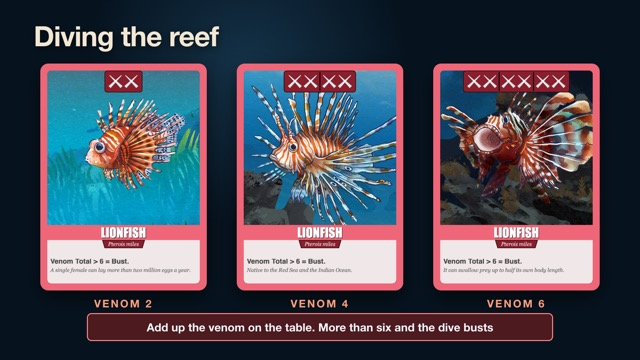
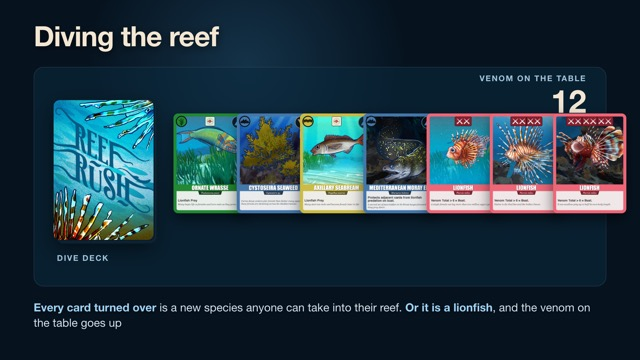
Reef Rush deck: split Diving the reef into the dive and a Lionfish slide

diff --git a/presentations/reef-rush/index.html b/presentations/reef-rush/index.html
@@ -136,7 +136,7 @@ body { background:#06131f; font-family:"Helvetica Neue", Helvetica, Arial, sans-
 <!-- GENERATED by build_deck.py. Edit build_deck.py, not this file. -->
 <div id="root" data-composition-id="reef-rush-v3" data-start="0" data-width="1920" data-height="1080" data-duration="400" data-fps="30">
 <!-- s01 Reef Rush -->
-<section class="clip scene" id="s01" data-start="0.000" data-duration="16.330" data-track-index="1" data-label="Reef Rush">
+<section class="clip scene" id="s01" data-start="0.000" data-duration="16.265" data-track-index="1" data-label="Reef Rush">
 <div class="glow"></div>
   <div class="kicker" id="s01-kicker" style="top:232px; font-size:40px; letter-spacing:0.35em;">BioInvaders!</div>
   <h1 class="title" id="s01-title" style="top:300px; width:1060px; font-size:150px; line-height:1;">Reef Rush</h1>
@@ -153,7 +153,7 @@ body { background:#06131f; font-family:"Helvetica Neue", Helvetica, Arial, sans-
   <div class="funding" id="s01-foot"><img src="assets/logos/eu_flag.png" alt="European Union flag">Funded by the European Union<span class="grant">Horizon Europe grant agreement No 101181413</span></div>
 </section>
 <!-- s02 The invader -->
-<section class="clip scene" id="s02" data-start="15.830" data-duration="23.838" data-track-index="2" data-label="The invader">
+<section class="clip scene" id="s02" data-start="15.765" data-duration="23.512" data-track-index="2" data-label="The invader">
 <img class="bg" src="assets/generated/slide_03_map_v2.webp" alt="" style="filter:saturate(0.88) brightness(0.86) contrast(1.03);">
   <div class="tint"></div>
   <div class="scrim-top"></div>
@@ -175,7 +175,7 @@ body { background:#06131f; font-family:"Helvetica Neue", Helvetica, Arial, sans-
   <div class="foot" id="s02-foot" style="bottom:54px;">The reefs our Greek partners dive on. <b>Every species in the game is one they meet in the sea</b></div>
 </section>
 <!-- s03 Why it's a threat -->
-<section class="clip scene" id="s03" data-start="39.168" data-duration="22.777" data-track-index="3" data-label="Why it&#x27;s a threat">
+<section class="clip scene" id="s03" data-start="38.776" data-duration="22.466" data-track-index="3" data-label="Why it&#x27;s a threat">
 <div class="glow"></div>
   <h1 class="title" id="s03-title" style="top:62px;">Why it's a threat</h1>
   <div class="threat" id="s03-t1" style="left:100px;">
@@ -195,7 +195,7 @@ body { background:#06131f; font-family:"Helvetica Neue", Helvetica, Arial, sans-
   </div>
 </section>
 <!-- s04 Invasive species this, invasive species that -->
-<section class="clip scene" id="s04" data-start="61.445" data-duration="15.398" data-track-index="4" data-label="Invasive species this, invasive species that">
+<section class="clip scene" id="s04" data-start="60.742" data-duration="15.282" data-track-index="4" data-label="Invasive species this, invasive species that">
 <img class="bg" src="assets/generated/slide_06_scrolling_figure.webp" alt="" style="filter:brightness(0.55) saturate(0.7);">
   <div class="scrim-left"></div>
   <h1 class="title" id="s04-title" style="top:150px; width:1100px; font-size:96px;">Invasive species this,<br><span class="hot">invasive species that</span></h1>
@@ -203,7 +203,7 @@ body { background:#06131f; font-family:"Helvetica Neue", Helvetica, Arial, sans-
   <div class="line" id="s04-l2" style="top:610px; width:1000px;">It stays <b>abstract</b>. It doesn't feel emotionally salient, and it doesn't motivate action</div>
 </section>
 <!-- s05 The law of apparent reality -->
-<section class="clip scene" id="s05" data-start="76.343" data-duration="16.412" data-track-index="5" data-label="The law of apparent reality">
+<section class="clip scene" id="s05" data-start="75.524" data-duration="16.190" data-track-index="5" data-label="The law of apparent reality">
 <div class="glow"></div>
   <h1 class="title" id="s05-title" style="top:62px;">The law of apparent reality</h1>
   <div class="panel" id="s05-quote" style="left:100px; top:200px; width:1000px;">
@@ -222,7 +222,7 @@ body { background:#06131f; font-family:"Helvetica Neue", Helvetica, Arial, sans-
   <div class="foot" id="s05-foot" style="bottom:54px;">The fear tracks the <b>experience</b>, not the danger</div>
 </section>
 <!-- s06 Play makes it close -->
-<section class="clip scene" id="s06" data-start="92.255" data-duration="9.400" data-track-index="6" data-label="Play makes it close">
+<section class="clip scene" id="s06" data-start="91.214" data-duration="9.400" data-track-index="6" data-label="Play makes it close">
 <img class="bg" src="assets/generated/slide_06_reef_table.webp" alt="" style="filter:brightness(0.8);">
   <div class="scrim-top"></div>
   <div class="scrim-bottom"></div>
@@ -232,7 +232,7 @@ body { background:#06131f; font-family:"Helvetica Neue", Helvetica, Arial, sans-
   <div class="foot" id="s06-foot" style="bottom:40px; font-size:40px; color:#f3e7d3;">A game puts it in your hands</div>
 </section>
 <!-- s07 Building a reef -->
-<section class="clip scene" id="s07" data-start="101.155" data-duration="15.705" data-track-index="7" data-label="Building a reef">
+<section class="clip scene" id="s07" data-start="100.114" data-duration="15.492" data-track-index="7" data-label="Building a reef">
 <img class="bg" src="assets/photos/island_santorini_full_art.webp" alt="" style="filter:brightness(0.75);">
   <div class="scrim-top"></div>
   <div class="scrim-bottom"></div>
@@ -243,7 +243,7 @@ body { background:#06131f; font-family:"Helvetica Neue", Helvetica, Arial, sans-
   <div class="line" id="s07-l2" style="top:850px; width:1200px;"><b>And the right human action</b>, which comes later</div>
 </section>
 <!-- s08 A healthy ecosystem -->
-<section class="clip scene" id="s08" data-start="116.360" data-duration="13.230" data-track-index="8" data-label="A healthy ecosystem">
+<section class="clip scene" id="s08" data-start="115.106" data-duration="13.052" data-track-index="8" data-label="A healthy ecosystem">
 <img class="bg" src="assets/bga/final_reefs.webp" alt="" style="filter:brightness(0.3) saturate(0.6) blur(2px);">
   <div class="scrim-top"></div>
   <h1 class="title" id="s08-title" style="top:62px;">A healthy ecosystem</h1>
@@ -254,7 +254,7 @@ body { background:#06131f; font-family:"Helvetica Neue", Helvetica, Arial, sans-
   <div class="art" id="s08-a4" style="left:1480px;"><img src="assets/art/jellyfish_full_art.webp" alt=""><span>Fried egg jellyfish</span></div>
 </section>
 <!-- s10 The right habitats -->
-<section class="clip scene" id="s10" data-start="129.090" data-duration="11.500" data-track-index="9" data-label="The right habitats">
+<section class="clip scene" id="s10" data-start="127.658" data-duration="11.500" data-track-index="9" data-label="The right habitats">
 <div class="glow"></div>
   <h1 class="title" id="s10-title" style="top:62px;">The right habitats</h1>
   <div class="hab" id="s10-h1" style="left:100px;">
@@ -272,7 +272,7 @@ body { background:#06131f; font-family:"Helvetica Neue", Helvetica, Arial, sans-
   <div class="foot" id="s10-foot" style="bottom:40px;">The border colour and the corner icon name the habitat. <b>Build the right mix</b></div>
 </section>
 <!-- s11 The goals of the game -->
-<section class="clip scene" id="s11" data-start="140.090" data-duration="20.655" data-track-index="10" data-label="The goals of the game">
+<section class="clip scene" id="s11" data-start="138.658" data-duration="20.374" data-track-index="10" data-label="The goals of the game">
 <div class="glow"></div>
   <h1 class="title" id="s11-title" style="top:62px;">The goals of the game</h1>
   <div class="line" id="s11-lede" style="top:186px; font-size:40px;">Three <b>goal cards</b> show every player what a healthy ecosystem looks like</div>
@@ -282,7 +282,7 @@ body { background:#06131f; font-family:"Helvetica Neue", Helvetica, Arial, sans-
   <div class="chip" id="s11-chip" style="left:460px; top:940px; width:1000px; height:84px;">A healthy reef is a high-scoring reef</div>
 </section>
 <!-- s09 Working with scientists -->
-<section class="clip scene" id="s09" data-start="160.245" data-duration="10.500" data-track-index="11" data-label="Working with scientists">
+<section class="clip scene" id="s09" data-start="158.531" data-duration="10.500" data-track-index="11" data-label="Working with scientists">
 <img class="bg" src="assets/photos/s09_aegean_reef_gamba.webp" alt="Rocky reef in the Cyclades with ornate wrasse, seabreams, rabbitfish, red algae and red encrusting sponge" style="left:auto; right:0; width:1080px; filter:brightness(0.85);">
   <div class="scrim-left" style="width:1300px;"></div>
   <h1 class="title" id="s09-title" style="top:62px;">Working with scientists</h1>
@@ -300,7 +300,7 @@ body { background:#06131f; font-family:"Helvetica Neue", Helvetica, Arial, sans-
   <div class="credit" id="s09-credit">Photo: Paolo Gamba, Cyclades, CC BY 2.0</div>
 </section>
 <!-- s12 Human action -->
-<section class="clip scene" id="s12" data-start="170.245" data-duration="15.500" data-track-index="12" data-label="Human action">
+<section class="clip scene" id="s12" data-start="168.531" data-duration="15.500" data-track-index="12" data-label="Human action">
 <img class="bg" src="assets/photos/expedition_lionfish_programme_full_art.webp" alt="" style="filter:brightness(0.7);">
   <div class="scrim-left" style="width:1400px;"></div>
   <div class="scrim-bottom"></div>
@@ -315,7 +315,7 @@ body { background:#06131f; font-family:"Helvetica Neue", Helvetica, Arial, sans-
   <div class="line" id="s12-l2" style="top:810px; width:1100px;">Build the incentive in and the culling carries on by itself</div>
 </section>
 <!-- s13 An economy around the lionfish -->
-<section class="clip scene" id="s13" data-start="185.245" data-duration="10.327" data-track-index="13" data-label="An economy around the lionfish">
+<section class="clip scene" id="s13" data-start="183.531" data-duration="10.250" data-track-index="13" data-label="An economy around the lionfish">
 <img class="bg" src="assets/generated/slide_18_products.webp" alt="" style="filter:brightness(0.85);">
   <div class="scrim-top"></div>
   <div class="scrim-bottom" style="height:520px;"></div>
@@ -329,7 +329,7 @@ body { background:#06131f; font-family:"Helvetica Neue", Helvetica, Arial, sans-
   </div>
 </section>
 <!-- s15 Diving the reef -->
-<section class="clip scene" id="s15" data-start="195.072" data-duration="32.512" data-track-index="14" data-label="Diving the reef">
+<section class="clip scene" id="s15" data-start="193.281" data-duration="20.500" data-track-index="14" data-label="Diving the reef">
 <div class="glow"></div>
   <h1 class="title" id="s15-title" style="top:62px;">Diving the reef</h1>
   <div id="s15-table" style="position:absolute; inset:0;">
@@ -346,15 +346,18 @@ body { background:#06131f; font-family:"Helvetica Neue", Helvetica, Arial, sans-
     <div class="flip" id="s15-c7"><div class="flip-inner"><div class="face back"><img src="assets/cards/card_back.webp" alt=""></div><div class="face front"><img src="assets/cards/lionfish_large_card.webp" alt=""></div></div></div>
     <div class="line" id="s15-l1" style="top:900px;"><b>Every card turned over</b> is a new species anyone can take into their reef. <b>Or it is a lionfish</b>, and the venom on the table goes up</div>
   </div>
-  <div id="s15-trio" style="position:absolute; inset:0;">
-    <div class="big" id="s15-b1" style="left:120px;"><img src="assets/cards/lionfish_small_card.webp" alt=""><span>Venom 2</span></div>
-    <div class="big" id="s15-b2" style="left:710px;"><img src="assets/cards/lionfish_medium_card.webp" alt=""><span>Venom 4</span></div>
-    <div class="big" id="s15-b3" style="left:1300px;"><img src="assets/cards/lionfish_large_card.webp" alt=""><span>Venom 6</span></div>
-    <div class="chip" id="s15-chip" style="left:260px; top:940px; width:1400px; height:84px;">Add up the venom on the table. More than six and the dive busts</div>
-  </div>
+</section>
+<!-- s14 Lionfish -->
+<section class="clip scene" id="s14" data-start="213.281" data-duration="16.344" data-track-index="15" data-label="Lionfish">
+<div class="glow"></div>
+  <h1 class="title" id="s14-title" style="top:62px;">Lionfish</h1>
+  <div class="big" id="s14-b1" style="left:120px;"><img src="assets/cards/lionfish_small_card.webp" alt=""><span>Venom 2</span></div>
+  <div class="big" id="s14-b2" style="left:710px;"><img src="assets/cards/lionfish_medium_card.webp" alt=""><span>Venom 4</span></div>
+  <div class="big" id="s14-b3" style="left:1300px;"><img src="assets/cards/lionfish_large_card.webp" alt=""><span>Venom 6</span></div>
+  <div class="chip" id="s14-chip" style="left:260px; top:940px; width:1400px; height:84px;">Add up the venom on the table. More than six and the dive busts</div>
 </section>
 <!-- s16 The deeper you dive -->
-<section class="clip scene" id="s16" data-start="227.084" data-duration="18.854" data-track-index="15" data-label="The deeper you dive">
+<section class="clip scene" id="s16" data-start="229.125" data-duration="18.429" data-track-index="16" data-label="The deeper you dive">
 <img class="bg" src="assets/photos/expedition_travelled_diver_full_art.webp" alt="" style="left:auto; right:0; width:1080px; filter:brightness(0.8);">
   <div class="scrim-left" style="width:1300px;"></div>
   <h1 class="title" id="s16-title" style="top:62px;">The deeper you dive</h1>
@@ -363,7 +366,7 @@ body { background:#06131f; font-family:"Helvetica Neue", Helvetica, Arial, sans-
   <div class="chip" id="s16-chip" style="left:100px; top:760px; width:960px; height:84px;">More than six venom on display and the dive busts</div>
 </section>
 <!-- s17 Stay or surface -->
-<section class="clip scene" id="s17" data-start="245.438" data-duration="12.500" data-track-index="16" data-label="Stay or surface">
+<section class="clip scene" id="s17" data-start="247.054" data-duration="12.500" data-track-index="17" data-label="Stay or surface">
 <img class="bg" src="assets/generated/slide_17_stay_or_surface.webp" alt="" style="filter:brightness(0.85);">
   <div class="scrim-top"></div>
   <div class="scrim-bottom"></div>
@@ -373,7 +376,7 @@ body { background:#06131f; font-family:"Helvetica Neue", Helvetica, Arial, sans-
   <div class="pin big" id="s17-p2" style="left:1320px; top:760px;">&uarr;&ensp;Surface</div>
 </section>
 <!-- s18 If you stop -->
-<section class="clip scene" id="s18" data-start="257.438" data-duration="13.732" data-track-index="17" data-label="If you stop">
+<section class="clip scene" id="s18" data-start="259.054" data-duration="13.425" data-track-index="18" data-label="If you stop">
 <img class="bg" src="assets/generated/slide_26_surfacing.webp" alt="" style="filter:brightness(0.8);">
   <div class="scrim-top"></div>
   <div class="scrim-bottom"></div>
@@ -383,7 +386,7 @@ body { background:#06131f; font-family:"Helvetica Neue", Helvetica, Arial, sans-
   <div class="line" id="s18-l1" style="top:840px; width:1100px;"><b>Surface</b>, and you take exactly one card from the display into your reef. The dive goes on without you</div>
 </section>
 <!-- s19 Natural predators -->
-<section class="clip scene" id="s19" data-start="270.669" data-duration="13.500" data-track-index="18" data-label="Natural predators">
+<section class="clip scene" id="s19" data-start="271.979" data-duration="13.500" data-track-index="19" data-label="Natural predators">
 <div class="glow"></div>
   <h1 class="title" id="s19-title" style="top:62px;">Natural predators</h1>
   <div class="line" id="s19-lede" style="top:186px; font-size:40px;">Grouper and moray are the <b>bodyguards</b> of your reef</div>
@@ -397,7 +400,7 @@ body { background:#06131f; font-family:"Helvetica Neue", Helvetica, Arial, sans-
   <div class="foot" id="s19-foot" style="bottom:54px;">They protect the cards next to them, and <b>they cannot be eaten themselves</b></div>
 </section>
 <!-- s20 Cashing in the catch -->
-<section class="clip scene" id="s20" data-start="283.669" data-duration="16.293" data-track-index="19" data-label="Cashing in the catch">
+<section class="clip scene" id="s20" data-start="284.979" data-duration="15.927" data-track-index="20" data-label="Cashing in the catch">
 <div class="glow"></div>
   <h1 class="title" id="s20-title" style="top:62px;">Cashing in the catch</h1>
   <div class="line" id="s20-lede" style="top:186px; font-size:35px;">The spearfisher removes a lionfish, but <b>selling the catch at the market is where the points are</b></div>
@@ -410,7 +413,7 @@ body { background:#06131f; font-family:"Helvetica Neue", Helvetica, Arial, sans-
   <div class="foot" id="s20-foot" style="bottom:54px;">Create market demand and <b>culling the invader becomes worth doing again and again</b></div>
 </section>
 <!-- s21 The game ends -->
-<section class="clip scene" id="s21" data-start="299.462" data-duration="15.705" data-track-index="20" data-label="The game ends">
+<section class="clip scene" id="s21" data-start="300.406" data-duration="15.492" data-track-index="21" data-label="The game ends">
 <div class="glow"></div>
   <h1 class="title" id="s21-title" style="top:62px;">The game ends</h1>
   <div class="shot" id="s21-shot" style="left:100px; top:200px; width:1000px; height:760px;"><img src="assets/bga/final_reefs_10.webp" alt="" style="width:1000px; height:1000px; margin-top:-120px;"><div class="shot-cap">Endgame reef, 9 September playtest with the Greek team</div></div>
@@ -425,7 +428,7 @@ body { background:#06131f; font-family:"Helvetica Neue", Helvetica, Arial, sans-
   </div>
 </section>
 <!-- s22 One of seven games -->
-<section class="clip scene" id="s22" data-start="314.667" data-duration="14.644" data-track-index="21" data-label="One of seven games">
+<section class="clip scene" id="s22" data-start="315.398" data-duration="14.446" data-track-index="22" data-label="One of seven games">
 <img class="bg" src="assets/photos/s22_backs.webp" alt="">
   <div class="scrim-bottom" style="height:360px;"></div>
   <div class="seven" id="s22-seven">7</div>
@@ -434,7 +437,7 @@ body { background:#06131f; font-family:"Helvetica Neue", Helvetica, Arial, sans-
   <div class="line" id="s22-l2" style="top:950px; width:1720px;">A few months in, still very much a prototype, and still changing</div>
 </section>
 <!-- s23 In person and online -->
-<section class="clip scene" id="s23" data-start="328.811" data-duration="13.230" data-track-index="22" data-label="In person and online">
+<section class="clip scene" id="s23" data-start="329.345" data-duration="13.052" data-track-index="23" data-label="In person and online">
 <div class="glow"></div>
   <h1 class="title" id="s23-title" style="top:62px;">In person and online</h1>
   <div class="shot" id="s23-a" style="left:100px; top:210px; width:840px; height:560px;"><img src="assets/generated/slide_23_three_player_dive.webp" alt="" style="width:840px; height:473px; margin-top:0;"><div class="shot-cap">Playtests round the table</div></div>
@@ -442,7 +445,7 @@ body { background:#06131f; font-family:"Helvetica Neue", Helvetica, Arial, sans-
   <div class="chip" id="s23-chip" style="left:130px; top:860px; width:1660px; height:84px; font-size:30px;">Print-and-play copies being tested by our Greek partner later this month, at a lionfish event in Santorini</div>
 </section>
 <!-- s24 The sweet spot -->
-<section class="clip scene" id="s24" data-start="341.541" data-duration="10.401" data-track-index="23" data-label="The sweet spot">
+<section class="clip scene" id="s24" data-start="341.897" data-duration="10.262" data-track-index="24" data-label="The sweet spot">
 <img class="bg" src="assets/generated/slide_24_balance_gen.webp" alt="" style="filter:brightness(0.8);">
   <div class="scrim-top"></div>
   <div class="scrim-bottom"></div>
@@ -451,7 +454,7 @@ body { background:#06131f; font-family:"Helvetica Neue", Helvetica, Arial, sans-
   <div class="foot" id="s24-foot" style="bottom:54px; font-size:36px;">Feedback from that event and other playtests tunes the economy until the feel is right</div>
 </section>
 <!-- s25 Free under Creative Commons -->
-<section class="clip scene" id="s25" data-start="351.442" data-duration="16.058" data-track-index="24" data-label="Free under Creative Commons">
+<section class="clip scene" id="s25" data-start="351.659" data-duration="15.841" data-track-index="25" data-label="Free under Creative Commons">
 <div class="glow"></div>
   <h1 class="title" id="s25-title" style="top:62px;">Free under Creative Commons</h1>
   <div class="shot" id="s25-shot" style="left:100px; top:210px; width:840px; height:473px;"><img src="assets/generated/slide_25_manual_gen.webp" alt="" style="width:840px; height:473px; margin-top:0;"></div>
@@ -470,7 +473,7 @@ body { background:#06131f; font-family:"Helvetica Neue", Helvetica, Arial, sans-
   </div>
 </section>
 <!-- s26 Why it should win -->
-<section class="clip scene" id="s26" data-start="367.000" data-duration="28.500" data-track-index="25" data-label="Why it should win">
+<section class="clip scene" id="s26" data-start="367.000" data-duration="28.500" data-track-index="26" data-label="Why it should win">
 <img class="bg" src="assets/generated/slide_26_prototype_gen.webp" alt="" style="filter:brightness(0.6);">
   <div class="scrim-left" style="width:1400px;"></div>
   <h1 class="title" id="s26-title" style="top:62px;">Why it should win</h1>
@@ -491,7 +494,7 @@ body { background:#06131f; font-family:"Helvetica Neue", Helvetica, Arial, sans-
   <div class="label" id="s26-cap" style="left:1232px; top:905px; width:580px; text-align:center; font-size:22px;">Four of the layouts being tried</div>
 </section>
 <!-- s28 Questions -->
-<section class="clip scene" id="s28" data-start="395.000" data-duration="5.000" data-track-index="26" data-label="Questions">
+<section class="clip scene" id="s28" data-start="395.000" data-duration="5.000" data-track-index="27" data-label="Questions">
 <div class="glow"></div>
   <div class="kicker" id="s28-kick" style="left:0; width:1920px; text-align:center; top:120px;">BioInvaders! Reef Rush</div>
   <h1 class="title" id="s28-title" style="left:0; width:1920px; text-align:center; top:170px; font-size:130px;">Questions?</h1>
@@ -509,7 +512,7 @@ body { background:#06131f; font-family:"Helvetica Neue", Helvetica, Arial, sans-
 <script>
 window.__timelines = window.__timelines || {};
 const tl = gsap.timeline({ paused: true });
-const S = {"s01": {"T": 0.0, "D": 15.83, "W": 0.3333}, "s02": {"T": 15.83, "D": 23.338, "W": 0.3333}, "s03": {"T": 39.168, "D": 22.277, "W": 0.3333}, "s04": {"T": 61.445, "D": 14.898, "W": 0.3333}, "s05": {"T": 76.343, "D": 15.912, "W": 0.3333}, "s06": {"T": 92.255, "D": 8.9, "W": 0.3333}, "s07": {"T": 101.155, "D": 15.205, "W": 0.3333}, "s08": {"T": 116.36, "D": 12.73, "W": 0.3333}, "s10": {"T": 129.09, "D": 11.0, "W": 0.3333}, "s11": {"T": 140.09, "D": 20.155, "W": 0.3333}, "s09": {"T": 160.245, "D": 10.0, "W": 0.3333}, "s12": {"T": 170.245, "D": 15.0, "W": 0.3333}, "s13": {"T": 185.245, "D": 9.827, "W": 0.3333}, "s15": {"T": 195.072, "D": 32.012, "W": 0.3333}, "s16": {"T": 227.084, "D": 18.354, "W": 0.3333}, "s17": {"T": 245.438, "D": 12.0, "W": 0.3333}, "s18": {"T": 257.438, "D": 13.232, "W": 0.3333}, "s19": {"T": 270.669, "D": 13.0, "W": 0.3333}, "s20": {"T": 283.669, "D": 15.793, "W": 0.3333}, "s21": {"T": 299.462, "D": 15.205, "W": 0.3333}, "s22": {"T": 314.667, "D": 14.144, "W": 0.3333}, "s23": {"T": 328.811, "D": 12.73, "W": 0.3333}, "s24": {"T": 341.541, "D": 9.901, "W": 0.3333}, "s25": {"T": 351.442, "D": 15.558, "W": 0.3333}, "s26": {"T": 367.0, "D": 28.0, "W": 0.3333}, "s28": {"T": 395.0, "D": 5.0, "W": 0.3333}};
+const S = {"s01": {"T": 0.0, "D": 15.765, "W": 0.3333}, "s02": {"T": 15.765, "D": 23.012, "W": 0.3333}, "s03": {"T": 38.776, "D": 21.966, "W": 0.3333}, "s04": {"T": 60.742, "D": 14.782, "W": 0.3333}, "s05": {"T": 75.524, "D": 15.69, "W": 0.3333}, "s06": {"T": 91.214, "D": 8.9, "W": 0.3333}, "s07": {"T": 100.114, "D": 14.992, "W": 0.3333}, "s08": {"T": 115.106, "D": 12.552, "W": 0.3333}, "s10": {"T": 127.658, "D": 11.0, "W": 0.3333}, "s11": {"T": 138.658, "D": 19.874, "W": 0.3333}, "s09": {"T": 158.531, "D": 10.0, "W": 0.3333}, "s12": {"T": 168.531, "D": 15.0, "W": 0.3333}, "s13": {"T": 183.531, "D": 9.75, "W": 0.3333}, "s15": {"T": 193.281, "D": 20.0, "W": 0.3333}, "s14": {"T": 213.281, "D": 15.844, "W": 0.3333}, "s16": {"T": 229.125, "D": 17.929, "W": 0.3333}, "s17": {"T": 247.054, "D": 12.0, "W": 0.3333}, "s18": {"T": 259.054, "D": 12.925, "W": 0.3333}, "s19": {"T": 271.979, "D": 13.0, "W": 0.3333}, "s20": {"T": 284.979, "D": 15.427, "W": 0.3333}, "s21": {"T": 300.406, "D": 14.992, "W": 0.3333}, "s22": {"T": 315.398, "D": 13.946, "W": 0.3333}, "s23": {"T": 329.345, "D": 12.552, "W": 0.3333}, "s24": {"T": 341.897, "D": 9.762, "W": 0.3333}, "s25": {"T": 351.659, "D": 15.341, "W": 0.3333}, "s26": {"T": 367.0, "D": 28.0, "W": 0.3333}, "s28": {"T": 395.0, "D": 5.0, "W": 0.3333}};
 const at  = (id, s) => S[id].T + s;                 // seconds into a scene
 const cue = (id, n) => S[id].T + n * S[id].W;       // n words into a scene's script
 const end = (id, s) => S[id].T + S[id].D - s;       // seconds before a scene ends
@@ -583,27 +586,26 @@ title("s13", at("s13", 0.2));
 pop("#s13-p1", at("s13", 1.2)); pop("#s13-p2", at("s13", 1.8)); pop("#s13-p3", at("s13", 2.4));
 rise("#s13-quote", at("s13", 3.5));
 
-// s15 Diving the reef: cards flip from the deck to the table, lionfish raise the venom, then the three lionfish fill the screen
+// s15 Diving the reef: species cards flip out first, then the three lionfish, and the table holds with all three showing
 title("s15", at("s15", 0.2));
 show("#s15-table", at("s15", 0.2)); show("#s15-decklab", at("s15", 0.6)); show("#s15-venom", at("s15", 0.6));
 gsap.set(["#s15-v2", "#s15-v6", "#s15-v12"], { opacity: 0 });
 const deckX = 160, deckY = 300, slotY = 340, slot0 = 520, slotGap = 190;
-const dealTimes = [cue("s15", 1), cue("s15", 5), cue("s15", 9), cue("s15", 13), cue("s15", 26) - 0.5, cue("s15", 28) - 0.5, cue("s15", 30) - 0.5];
+const dealTimes = [at("s15", 1.0), at("s15", 3.0), at("s15", 5.0), at("s15", 7.0), at("s15", 13.0), at("s15", 14.5), at("s15", 16.0)];
 dealTimes.forEach((t0, i) => {
   const sel = "#s15-c" + (i + 1), sx = slot0 + i * slotGap;
   gsap.set(sel, { left: sx, top: slotY });
   tl.fromTo(sel, { x: deckX - sx + 40, y: deckY - slotY + 60, scale: 300 / 220 }, { x: 0, y: 0, scale: 1, duration: 0.9, ease: "power2.inOut" }, t0);
   tl.fromTo(sel + " .flip-inner", { rotationY: 0 }, { rotationY: 180, duration: 0.9, ease: "power2.inOut" }, t0);
 });
-rise("#s15-l1", cue("s15", 3));
+rise("#s15-l1", at("s15", 1.0));
 function venom(from, to, t) { tl.to(from, { opacity: 0, duration: 0.2 }, t); tl.fromTo(to, { opacity: 0, scale: 1.6 }, { opacity: 1, scale: 1, duration: 0.4, ease: "back.out(2)" }, t); }
 venom("#s15-v0", "#s15-v2", dealTimes[4] + 0.7); venom("#s15-v2", "#s15-v6", dealTimes[5] + 0.7); venom("#s15-v6", "#s15-v12", dealTimes[6] + 0.7);
-const trioT = dealTimes[6] + 2.0;
-tl.to("#s15-table", { autoAlpha: 0, duration: 0.6 }, trioT);
-gsap.set("#s15-trio", { opacity: 0 });
-tl.to("#s15-trio", { opacity: 1, duration: 0.1 }, trioT + 0.2);
-pop("#s15-b1", trioT + 0.3, { duration: 0.8 }); pop("#s15-b2", trioT + 0.5, { duration: 0.8 }); pop("#s15-b3", trioT + 0.7, { duration: 0.8 });
-pop("#s15-chip", trioT + 2.0);
+
+// s14 Lionfish: the three lionfish, large, with their venom
+title("s14", at("s14", 0.2));
+pop("#s14-b1", at("s14", 0.3), { duration: 0.8 }); pop("#s14-b2", at("s14", 0.5), { duration: 0.8 }); pop("#s14-b3", at("s14", 0.7), { duration: 0.8 });
+pop("#s14-chip", at("s14", 3.0));
 
 // s16 Deeper you dive
 title("s16", at("s16", 0.2)); rise("#s16-l1", at("s16", 1.2)); rise("#s16-l2", at("s16", 4.5)); pop("#s16-chip", at("s16", 7.5));
@@ -690,7 +692,7 @@ body { cursor:pointer; }
 <script>
 (function () {
   const END = 400.000, REST = 3.0;                 // REST: where slide 1 sits, fully drawn, before the talk starts
-  const ids = Object.keys(S), T = ids.map((id) => S[id].T), names = ["Reef Rush", "The invader", "Why it's a threat", "Invasive species this, invasive species that", "The law of apparent reality", "Play makes it close", "Building a reef", "A healthy ecosystem", "The right habitats", "The goals of the game", "Working with scientists", "Human action", "An economy around the lionfish", "Diving the reef", "The deeper you dive", "Stay or surface", "If you stop", "Natural predators", "Cashing in the catch", "The game ends", "One of seven games", "In person and online", "The sweet spot", "Free under Creative Commons", "Why it should win", "Questions"];
+  const ids = Object.keys(S), T = ids.map((id) => S[id].T), names = ["Reef Rush", "The invader", "Why it's a threat", "Invasive species this, invasive species that", "The law of apparent reality", "Play makes it close", "Building a reef", "A healthy ecosystem", "The right habitats", "The goals of the game", "Working with scientists", "Human action", "An economy around the lionfish", "Diving the reef", "Lionfish", "The deeper you dive", "Stay or surface", "If you stop", "Natural predators", "Cashing in the catch", "The game ends", "One of seven games", "In person and online", "The sweet spot", "Free under Creative Commons", "Why it should win", "Questions"];
   const root = document.getElementById("root"), timer = document.getElementById("pk-timer"),
         wait = document.getElementById("pk-wait"), over = document.getElementById("pk-over");
   tl.add(() => {}, END);                                 // the last slide runs its full time

diff --git a/presentations/index.html b/presentations/index.html
@@ -168,7 +168,7 @@
 </div>
 <div class="deck">
   <div class="deck-title">BioInvaders! Reef Rush <span class="badge">pecha kucha</span></div>
-  <div class="deck-desc">A push-your-luck card game about the lionfish invasion of the Mediterranean, made for the GuardIAS project with ecologists in Greece and Germany. Pecha Kucha for the games competition at ECGBL 2026, TU Darmstadt: 26 slides in 6 minutes 40. Runs the invader &rarr; why it feels far away &rarr; building a reef &rarr; diving and pushing your luck &rarr; one of seven games &rarr; free under Creative Commons. Click to start and it runs itself; left and right arrows change slide, up shows every slide.</div>
+  <div class="deck-desc">A push-your-luck card game about the lionfish invasion of the Mediterranean, made for the GuardIAS project with ecologists in Greece and Germany. Pecha Kucha for the games competition at ECGBL 2026, TU Darmstadt: 27 slides in 6 minutes 40. Runs the invader &rarr; why it feels far away &rarr; building a reef &rarr; diving and pushing your luck &rarr; one of seven games &rarr; free under Creative Commons. Click to start and it runs itself; left and right arrows change slide, up shows every slide.</div>
   <div class="actions">
     <a class="btn btn-primary" href="/presentations/reef-rush/">Open deck</a>
   </div>
